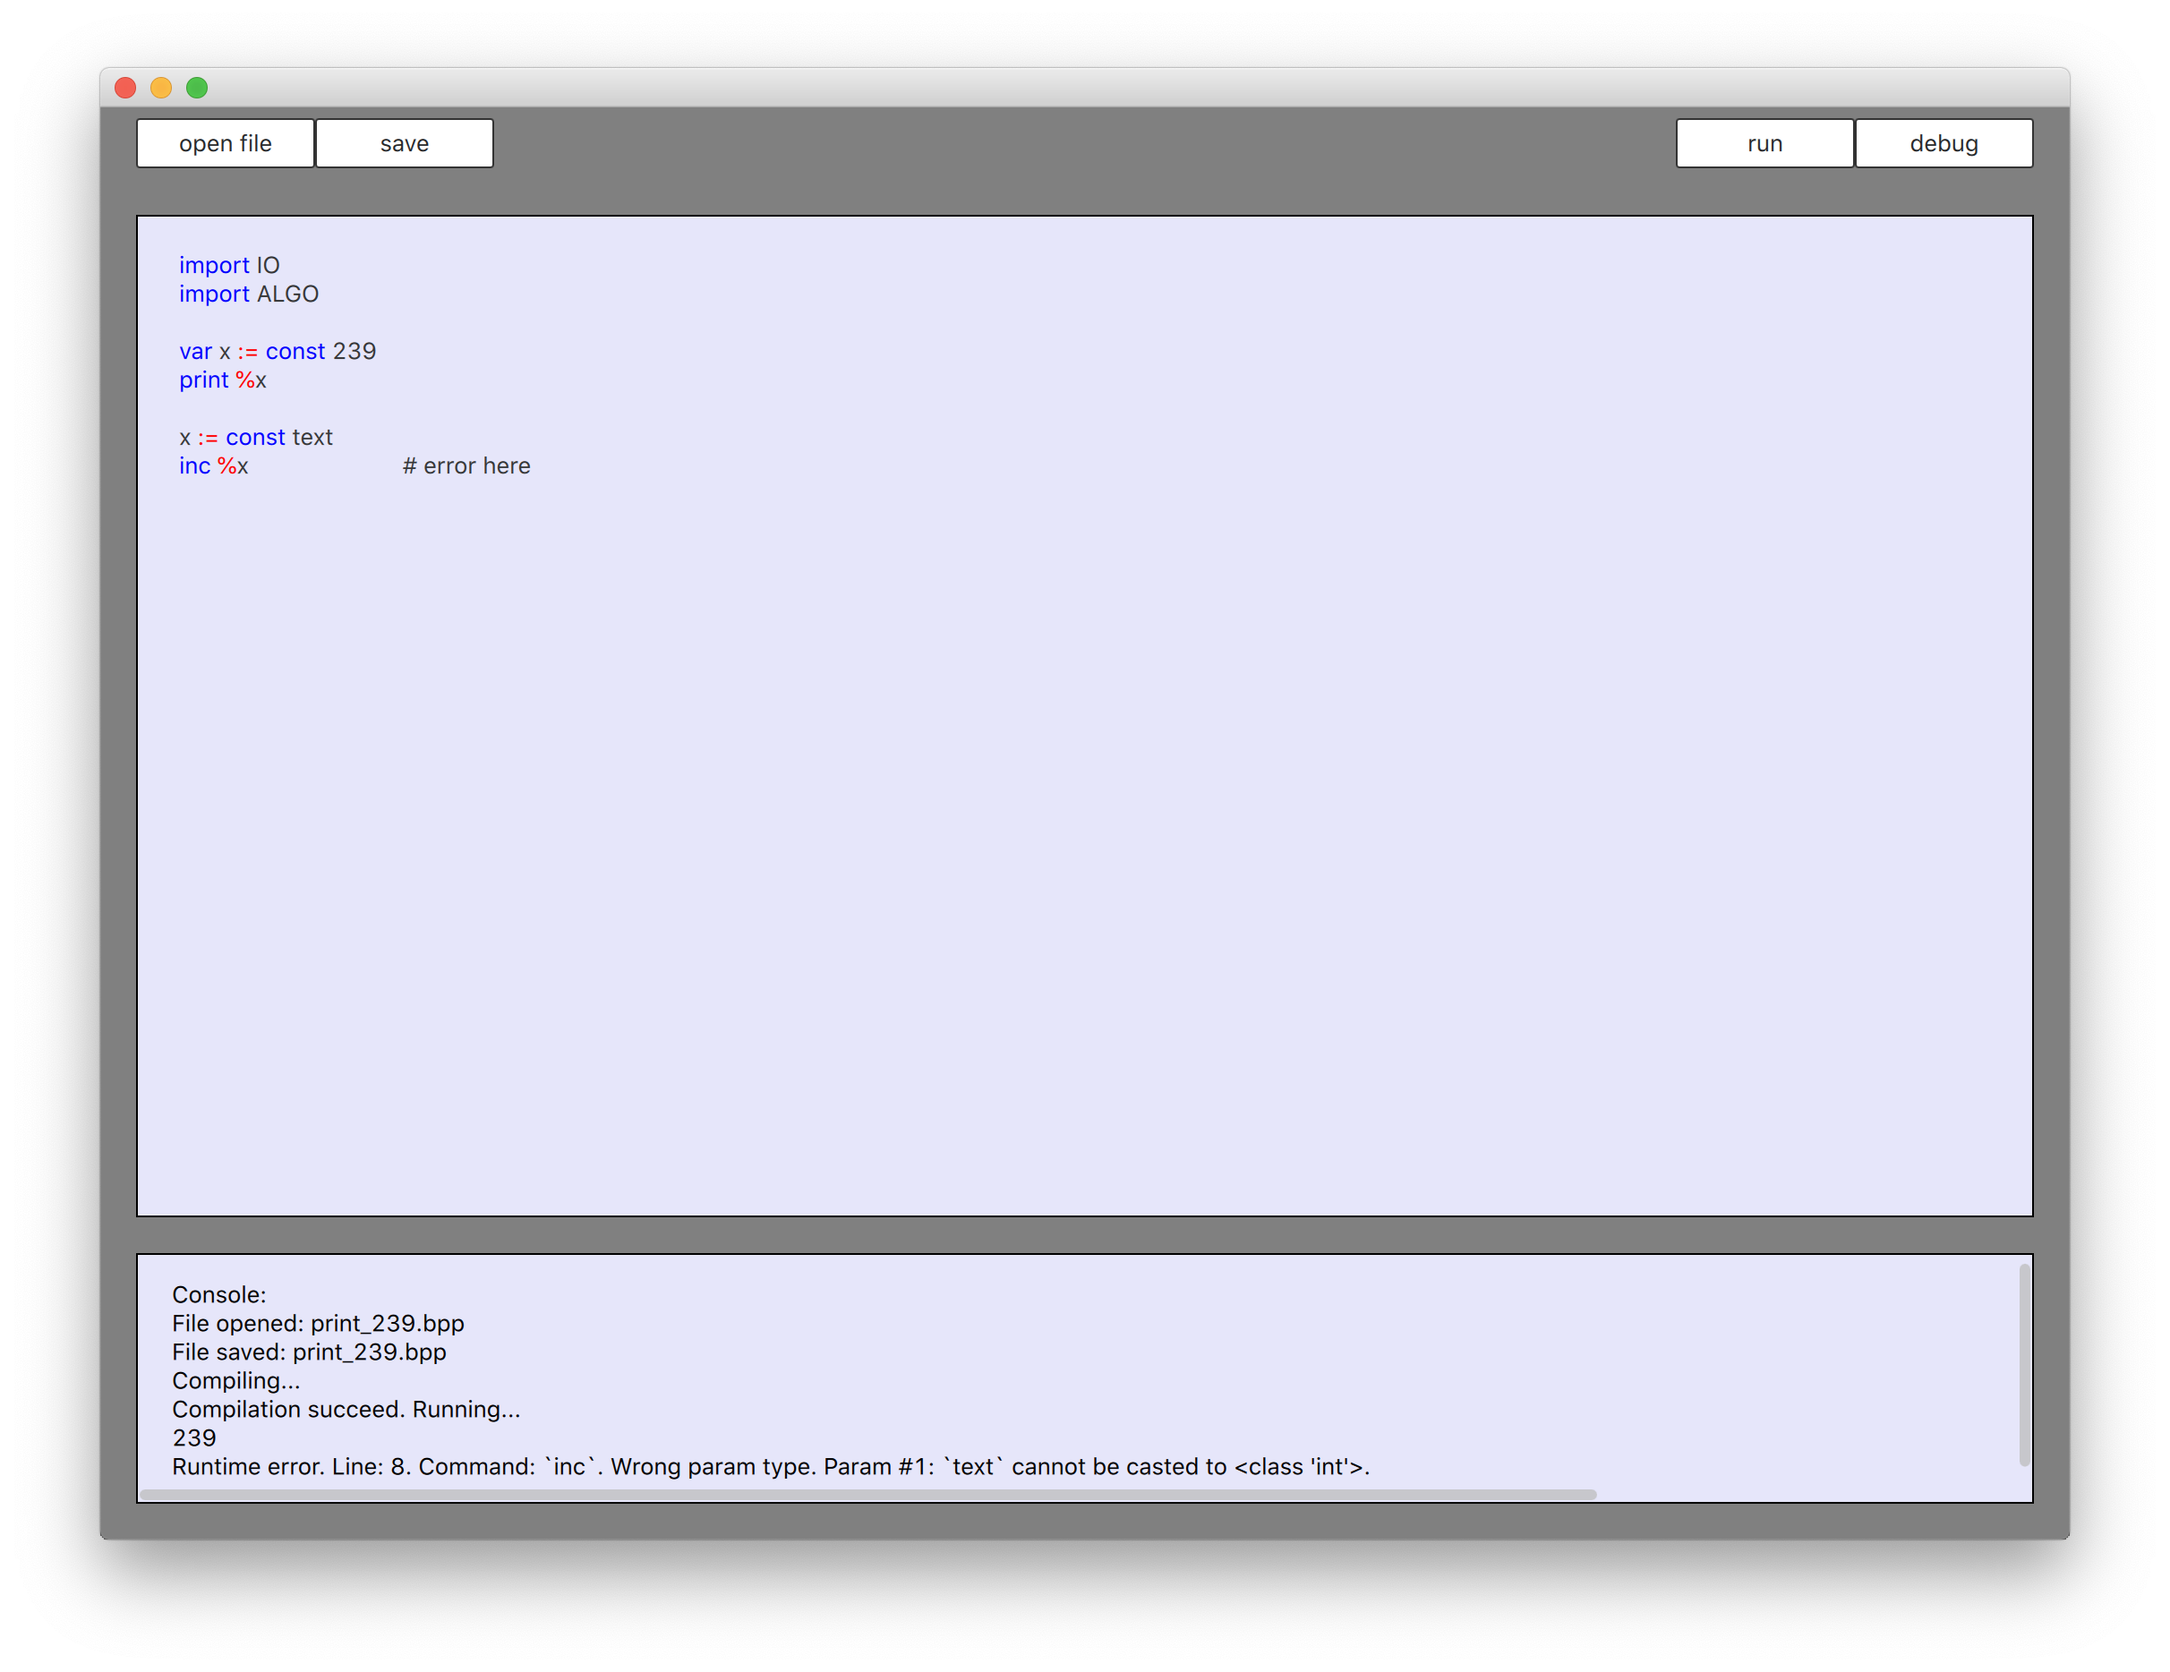
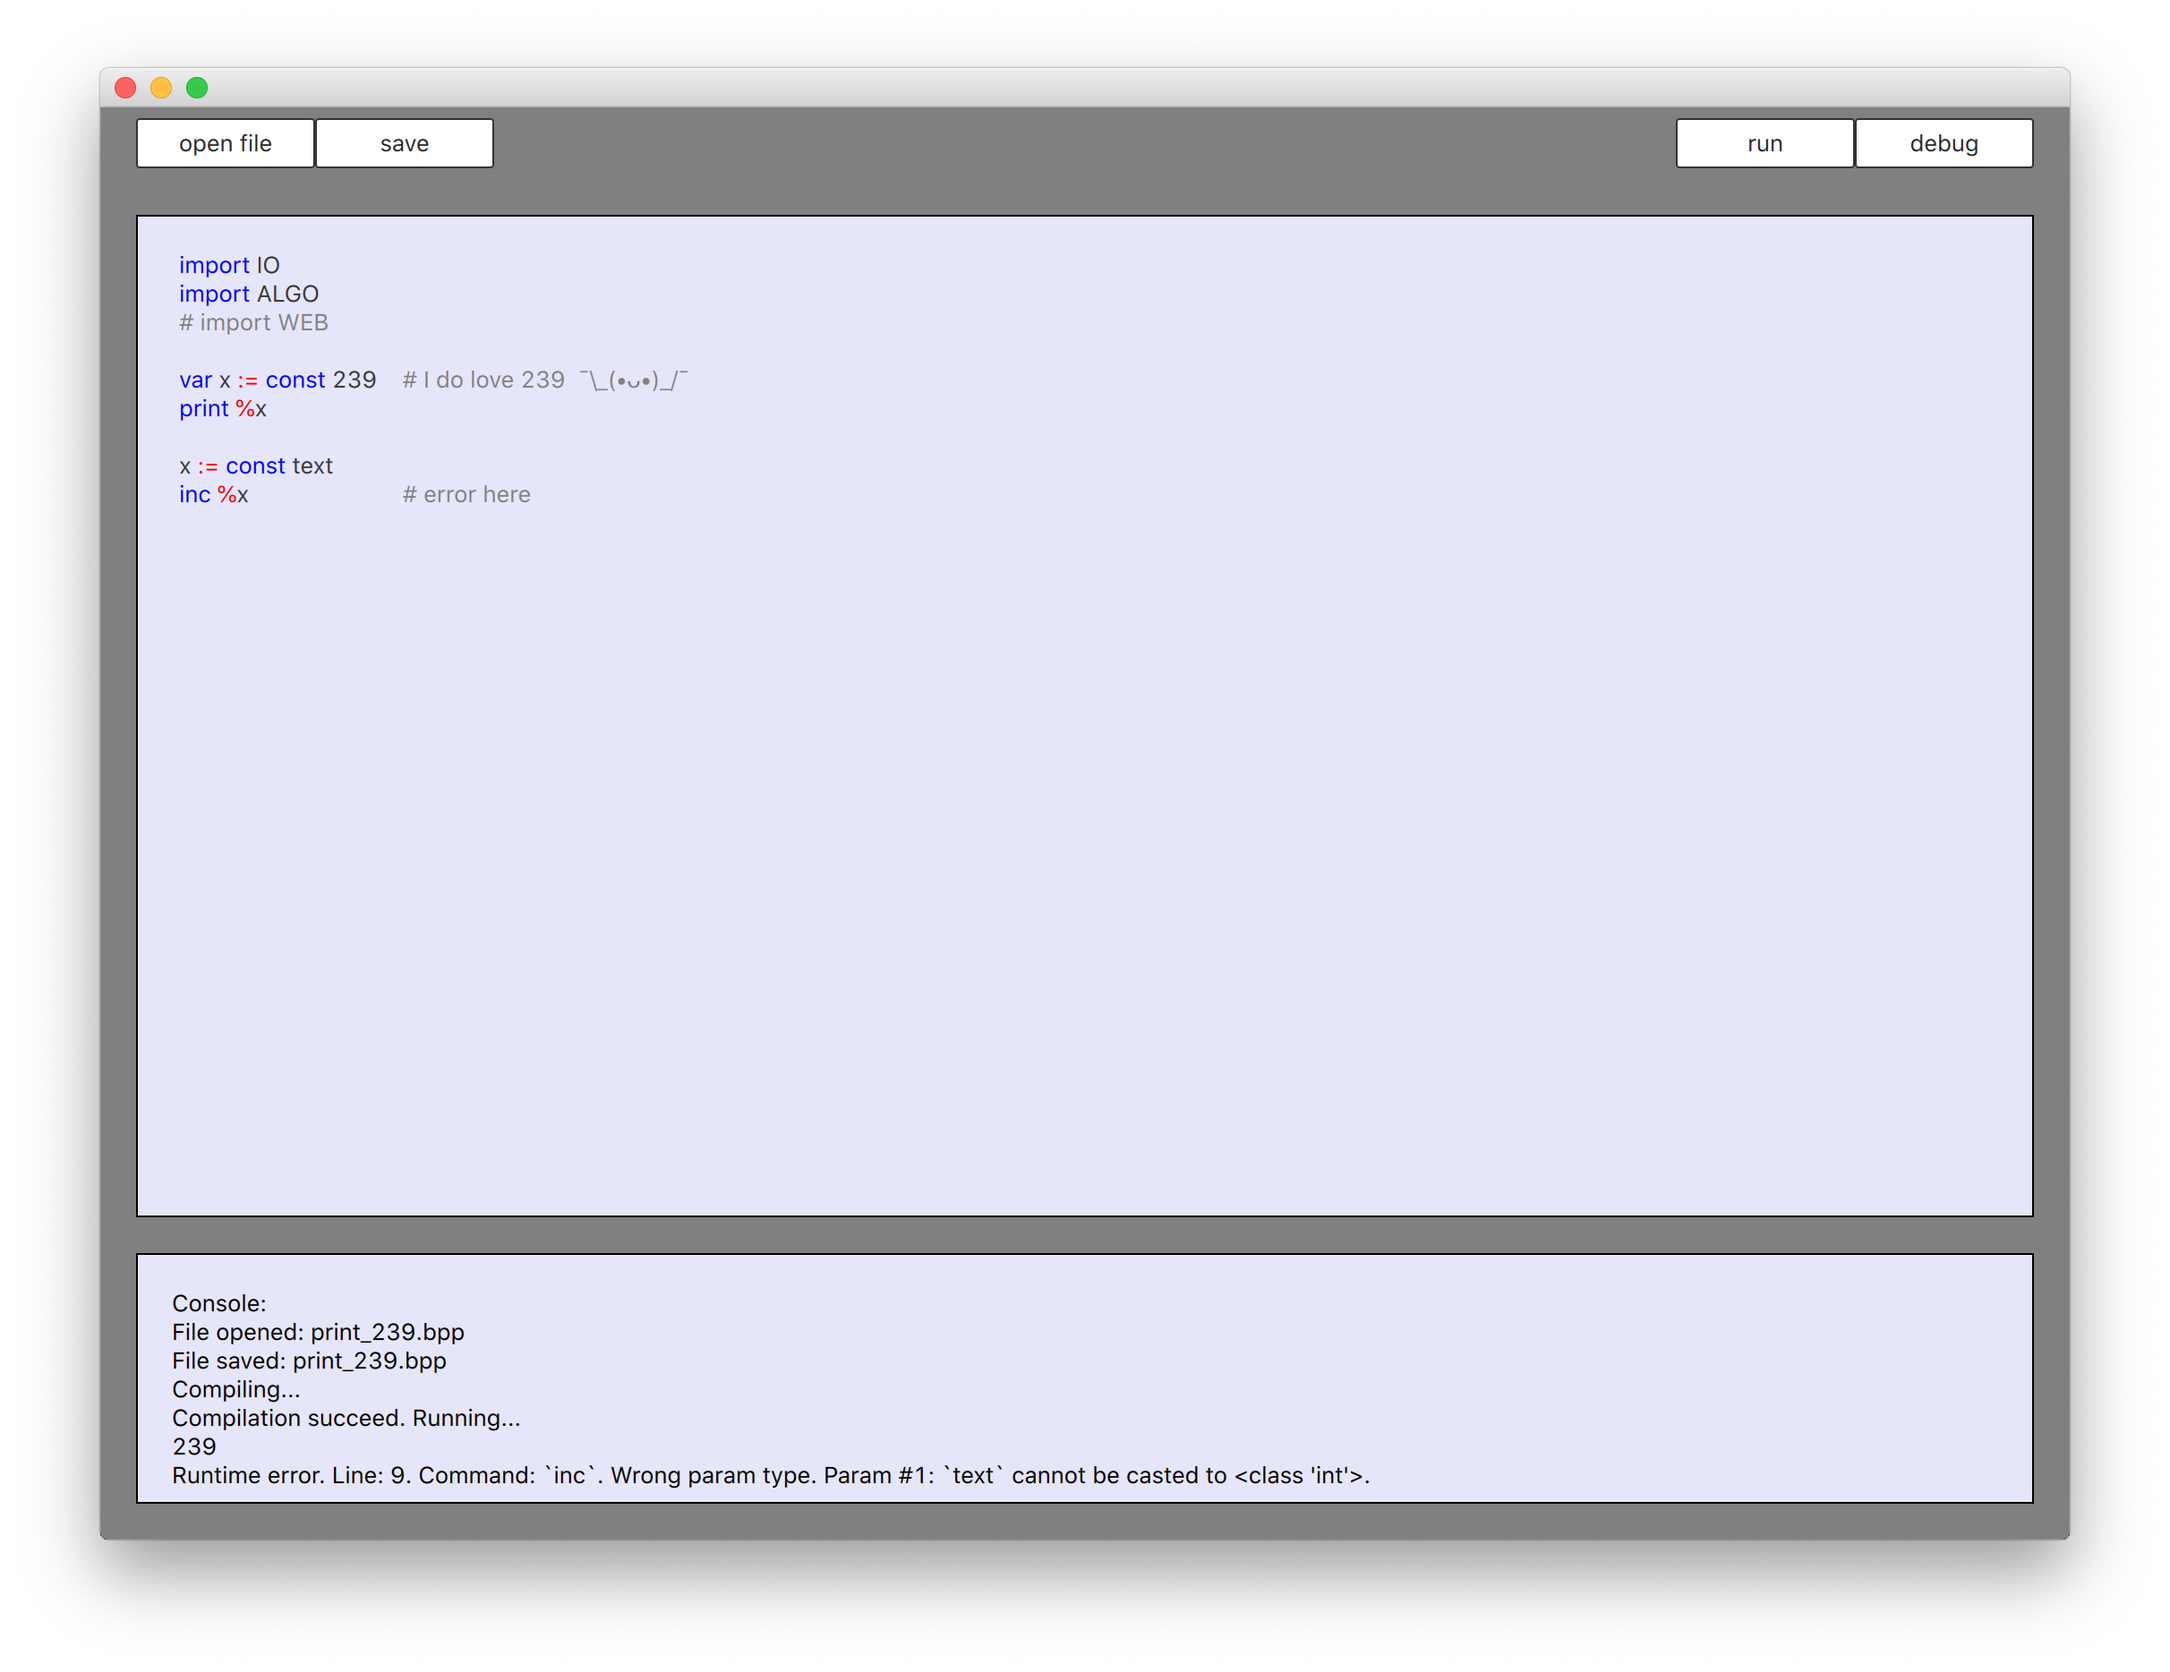
added comments

diff --git a/front/qmls/view.qml b/front/qmls/view.qml
@@ -158,7 +158,7 @@ Rectangle {
                     }
 
                     FpsTimer {
-                        interval: 2000;
+                        interval: 5000;
 
                         onTriggered: {
                             if (!bridge.is_text_empty()) {

diff --git a/body/TextStyler.py b/body/TextStyler.py
@@ -5,22 +5,28 @@ from intepreter.modules.ModuleManager import ModuleManager
 
 
 class TextStyler:
+    comments = []
+
     __just_replace = {
         '\n' : '<br/>',
         ' '  : '&nbsp;'
     }
 
-    __word_type = {'commands'   : sorted(ModuleManager.get_all_commands_names(),
+    __word_type = {'command'   : sorted(ModuleManager.get_all_commands_names(),
                                          key = lambda x: len(x),
                                          reverse=True),
-                   'operators'  : Semantic.get_operators() }
+                   'operator'  : Semantic.get_operators() }
 
-    __type_color = {'commands'   : 'blue',
-                    'operators'  : 'red' }
+    __type_color = {'command'   : 'blue',
+                    'operator'  : 'red',
+                    'comment'   : 'grey',
+                    'regular_word' : 'black'}
 
     @classmethod
     def plain_2_rich(cls, text):
         result = copy.deepcopy(text)
+
+        result = cls.__cut_out_comments(result)
 
         for old in cls.__just_replace.keys():
             new = cls.__just_replace[old]
@@ -28,21 +34,10 @@ class TextStyler:
 
         for type in cls.__word_type:
             for word in cls.__word_type[type]:
-                result = result.replace(word, cls.get_colored_word(word))
-        return result
+                result = result.replace(word, cls.__get_colored_word(word))
 
-    @classmethod
-    def get_colored_word(cls, word):
-        word_type = None
-        for x in cls.__word_type.keys():
-            if word in cls.__word_type[x]:
-                word_type = x
+        return cls.__insert_comments(result)
 
-        if not word_type:
-            return word
-
-        color = cls.__type_color[word_type]
-        return f'<font color=\"{color}\">{word}</font>'
 
     @classmethod
     def rich_2_plain(cls, text):
@@ -53,12 +48,48 @@ class TextStyler:
             old = cls.__just_replace[new]
             result = result.replace(old, new)
 
-        x = cls.clear_code(result)
+        x = cls.__clear_code(result)
         y = x[36:] + '\n'
         return y
 
     @classmethod
-    def clear_code(cls, rich):
+    def __cut_out_comments(cls, text):
+        lines = text.split('\n')
+        for idx, line in enumerate(lines):
+            try:
+                comment = line[line.index(Semantic.get_symbol('comment')):]
+                lines[idx] = line[:line.index(Semantic.get_symbol('comment'))]
+                if comment:
+                    cls.comments.append((idx, comment))
+            except ValueError as ignored:
+                pass
+
+        return '\n'.join(lines)
+
+    @classmethod
+    def __insert_comments(cls, text):
+        lines = text.split('<br/>')
+        for idx, comment in cls.comments:
+            lines[idx] += (cls.__get_colored_word(comment, cls.__type_color['comment']))
+
+        cls.comments = []
+        return '<br/>'.join(lines)
+
+    @classmethod
+    def __get_colored_word(cls, word, color=None):
+        if color:
+            return f'<font color=\"{color}\">{word}</font>'
+
+        word_type = "regular_word"
+        for x in cls.__word_type.keys():
+            if word in cls.__word_type[x]:
+                word_type = x
+
+        color = cls.__type_color[word_type]
+        return f'<font color=\"{color}\">{word}</font>'
+
+    @classmethod
+    def __clear_code(cls, rich):
         text = copy.deepcopy(rich)
         while True:
             try:

diff --git a/intepreter/language/Semantic.py b/intepreter/language/Semantic.py
@@ -4,7 +4,8 @@ class Semantic:
     __symbols = {'var_separator'   : ':=',
                  'var'             : 'var',
                  'import'          : 'import',
-                 'return_variable' : '_'}
+                 'return_variable' : '_',
+                 'comment'         : '#'}
 
     __operators = [':=', '%']
 
